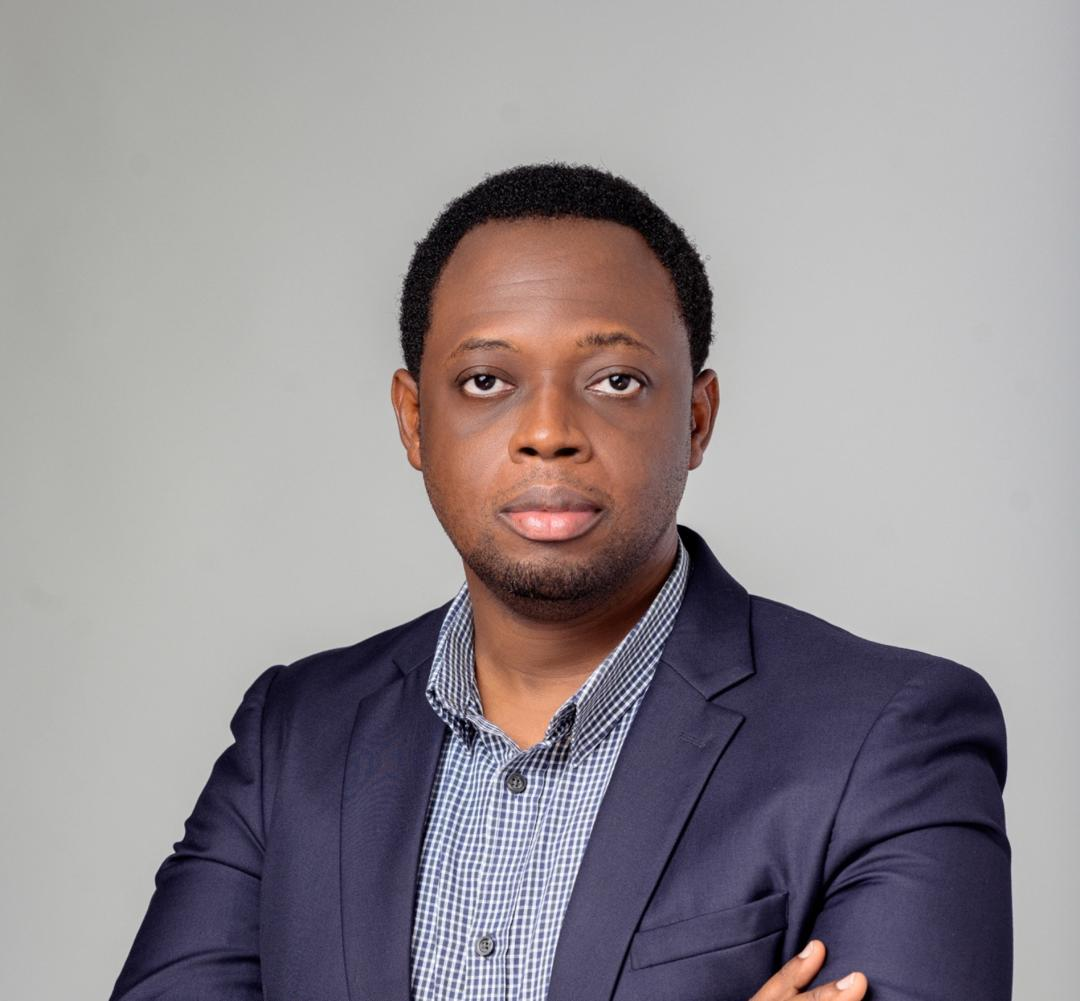
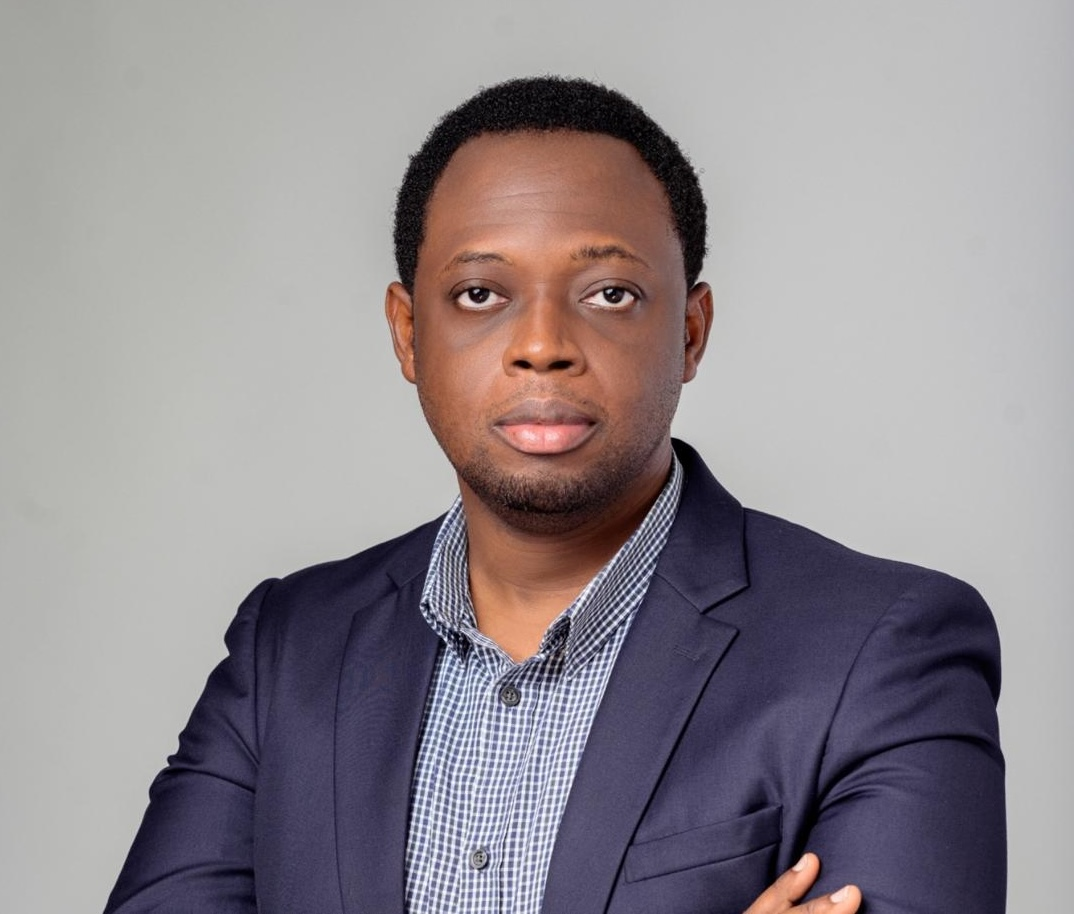
Update team photos, founder portrait and Home copy tweaks
New photos for Oluwatoyin Abegunde and Ofonama Archibong, a WebP founder
portrait on Home, the third carousel headline, a wider Why ClimeNergies
text column and a restyled View All button.

diff --git a/app/page.tsx b/app/page.tsx
@@ -137,7 +137,7 @@ export default function HomePage() {
         <Container>
           <Eyebrow>Why ClimeNergies</Eyebrow>
           <SectionHeading lines={["Global Rigor.", "African Depth. Real Execution."]} />
-          <Prose className="mt-8 max-w-5xl">
+          <Prose className="mt-8 max-w-7xl">
             <p>
               Africa needs advisory grounded in its own markets and institutions, not adapted global playbooks. We
               combine the technical standards of global institutions with market knowledge earned across
@@ -232,7 +232,7 @@ export default function HomePage() {
           <div className="mt-12 grid gap-10 md:grid-cols-12 md:gap-14">
             <div className="relative aspect-4/5 overflow-hidden bg-forest-900 md:col-span-4 lg:aspect-auto lg:h-full">
               <Image
-                src={founder.image}
+                src="/assets/our-team/Adedoyin_Pearse.webp"
                 alt={`Portrait of ${founder.name}`}
                 fill
                 sizes="(min-width: 768px) 400px, 100vw"

diff --git a/lib/content.ts b/lib/content.ts
@@ -36,7 +36,7 @@ export const heroSlides = [
   {
     image: "/assets/carousel/Connecting Capital Ecosystems Innovation (1).png",
     alt: "A glowing green globe centred on the African continent, connected by a network of points",
-    headline: ["Closing the Gap Between", "Ambition and Execution."],
+    headline: ["Connecting Capital", "Innovation and Ecosystems."],
     subheadline:
       "Turning promising energy, climate and resource solutions into investable, scalable businesses.",
     position: "object-center",

diff --git a/components/latest-insights.tsx b/components/latest-insights.tsx
@@ -11,7 +11,7 @@ export function LatestInsights() {
             <Eyebrow>Insights &amp; Perspective</Eyebrow>
             <SectionHeading lines={["Latest From ClimeNergies"]} />
           </div>
-          <ButtonLink href="/blog" size="sm">
+          <ButtonLink href="/blog" size="sm" className="!bg-[#012F23] !text-white !px-16 !py-2">
             View All
           </ButtonLink>
         </div>
